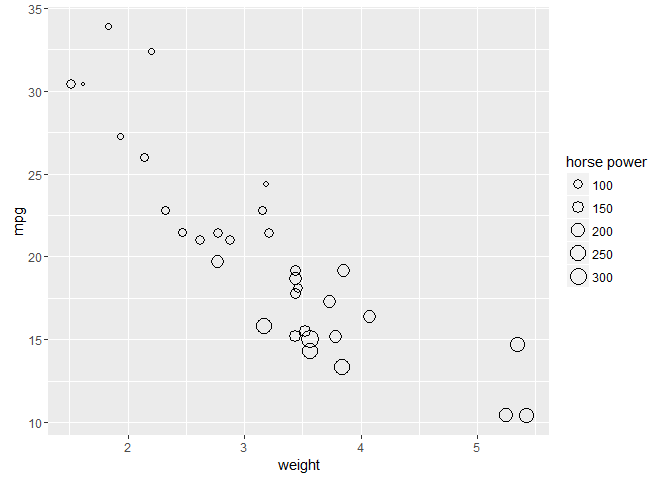
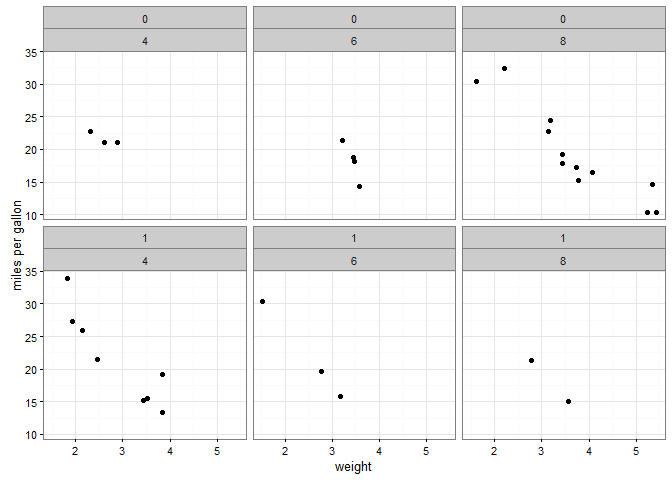
finished README

diff --git a/README.md b/README.md
@@ -13,6 +13,13 @@ heatmap()
 
 To use this function you must pre-prepare a table or else it won't. The term used in this pkg is the "summarized data table", which means for your two catigorical variables, you should have only one row in your table for each combination of catigorical variables, with one y output for each row. For example, if you want to see the effect of sex (male vs female) and smoking status (yes vs no), and you want to measure mutation rate accross 100 samples, you would prepare a table with 3 columns and 4 rows. Note that we have averaged the mutation for each of the 4 combinations of sex and smoking.
 
+| sex      | smoking | average mutation rate |
+|----------|---------|-----------------------|
+| "male"   | "no"    | 15.5                  |
+| "male"   | "yes"   | 12.3                  |
+| "female" | "no"    | 18.8                  |
+| "female" | "yes"   | 15.6                  |
+
 ### Function structure
 
 heatmap(data, x1, x2, y, xlab = "x-axis", ylab = "y-axis", legendlab = "responsevariable")
@@ -25,7 +32,9 @@ heatmap(data, x1, x2, y, xlab = "x-axis", ylab = "y-axis", legendlab = "response
 -   ylab is the y-axis label - must be character data.
 -   legendlab is the legend label - must be character data.
 
-### Example:
+### Example
+
+In this package we use the mtcars data set a lot, and below I'm going to walk through and example of how to use the heatmap function. First we need to fix the mtcars data, as several of the categorical variables are encoded as factors.
 
 ``` r
     my_cars <- dplyr::mutate(mtcars, cyl = as.factor(mtcars$cyl),
@@ -34,7 +43,25 @@ heatmap(data, x1, x2, y, xlab = "x-axis", ylab = "y-axis", legendlab = "response
                                                      am = as.factor(mtcars$am),
                                                      vs = as.factor(mtcars$vs))
 
+str(my_cars)
+```
 
+    ## 'data.frame':    32 obs. of  11 variables:
+    ##  $ mpg : num  21 21 22.8 21.4 18.7 18.1 14.3 24.4 22.8 19.2 ...
+    ##  $ cyl : Factor w/ 3 levels "4","6","8": 2 2 1 2 3 2 3 1 1 2 ...
+    ##  $ disp: num  160 160 108 258 360 ...
+    ##  $ hp  : num  110 110 93 110 175 105 245 62 95 123 ...
+    ##  $ drat: num  3.9 3.9 3.85 3.08 3.15 2.76 3.21 3.69 3.92 3.92 ...
+    ##  $ wt  : num  2.62 2.88 2.32 3.21 3.44 ...
+    ##  $ qsec: num  16.5 17 18.6 19.4 17 ...
+    ##  $ vs  : Factor w/ 2 levels "0","1": 1 1 2 2 1 2 1 2 2 2 ...
+    ##  $ am  : Factor w/ 2 levels "0","1": 2 2 2 1 1 1 1 1 1 1 ...
+    ##  $ gear: Factor w/ 3 levels "3","4","5": 2 2 2 1 1 1 1 2 2 2 ...
+    ##  $ carb: Factor w/ 6 levels "1","2","3","4",..: 4 4 1 1 2 1 4 2 2 4 ...
+
+Now we want to group the data by number of cylinders (cyl) and weather they are automatic or manual (am), and take the average of the miles per gallon, which will be our response varialbe in this case.
+
+``` r
     heat_data <- dplyr::ungroup(
         dplyr::summarise(dplyr::group_by(my_cars, am, cyl),
                                          average_mpg = mean(mpg)))
@@ -52,6 +79,8 @@ heat_data
     ## 5      1      6    20.56667
     ## 6      1      8    15.40000
 
+Now this data can be feed into our function heatmap()
+
 ``` r
 #heatmap::heatmap(heat_data, heat_data$cyl, heat_data$am, heat_data$average_mpg, "cylinders", "am", "mpg")
 ```
@@ -65,7 +94,7 @@ facet2D()
 
 This function was inspired by my interested in showing 2 categorical variables in the same set of graphs as 2 continous variables, ploting a grid of faceted plots where each column represents different values of one categorical variable, and each row represents different values of the other categorical variable. Each plot would show one of the continous variables on the x axis, with the other continous variable on the y-axis. However at this moment the function is not working properly. I will go into that below.
 
-### Function structure
+### Function Structure
 
 facet2D(data, c1, c2, f1, f2, xlab = "x-axis", ylab = "y-axis")
 
@@ -77,15 +106,9 @@ facet2D(data, c1, c2, f1, f2, xlab = "x-axis", ylab = "y-axis")
 -   xlab is the x-axis label - must be character data.
 -   ylab is the y-axis label - must be character data.
 
-### Example
+### Trouble shooting
 
-``` r
-coolgraph::facet2D(my_cars, my_cars$wt, my_cars$mpg, "am", "cyl", "weight", "miles per gallon")
-```
-
-![](README_files/figure-markdown_github/unnamed-chunk-3-1.png)
-
-Note that all tests for this function are currently disabled until it is working properlly. Below is the plot that this function should be producing. As you can see, it technically facet's the data and plots mpg vs wt, but something seems to be going wrong in that the points are distorted. This function will hopefully be fixed at a future data.
+In this graph, I want to compare the mpg or miles per gallon a car gets based on it's weight, accross cars with different numbers of cylinders and automatic drive vs manual drive. Below is the guts of what the function does.
 
 ``` r
 b <- ggplot2::ggplot(my_cars, ggplot2::aes(wt, mpg)) +
@@ -98,6 +121,16 @@ b
 ```
 
 ![](README_files/figure-markdown_github/unnamed-chunk-4-1.png)
+
+Unfortunatly when we make pretty much an identical call to our function, something about the facet\_wrap distorts the data.
+
+``` r
+coolgraph::facet2D(my_cars, my_cars$wt, my_cars$mpg, "am", "cyl", "weight", "miles per gallon")
+```
+
+![](README_files/figure-markdown_github/unnamed-chunk-5-1.png)
+
+Note that all tests for this function are currently disabled until it is working properlly. As you can see, it technically facet's the data and plots mpg vs wt, but something seems to be going wrong in that the points are distorted. This function will hopefully be fixed at a future data.
 
 sizescale()
 -----------
@@ -118,13 +151,26 @@ sizescale(data, x1, y1, scale, xlab = "x-axis", ylab = "y-axis", legendlab = "le
 
 ### Example
 
+This function will work pretty much directly on any dataframe, and requires minimal prep, however if for some reason your continous variables aren't in a numerical formate (dbl, int, numeric) then you will have to convert them to said numeric formate.
+
+Below is the internal workings of the function.
+
+``` r
+ggplot2::ggplot(mtcars, ggplot2::aes(x = mtcars$wt, y = mtcars$mpg)) +
+        ggplot2::geom_point(ggplot2::aes(size= mtcars$hp), pch = 21) +
+        ggplot2::xlab("weight") +
+        ggplot2::ylab("mpg") +
+        ggplot2::labs(size = "horse power")
+```
+
+![](README_files/figure-markdown_github/unnamed-chunk-6-1.png)
+
+And again, below this the actual function call.
+
 ``` r
 coolgraph::sizescale(mtcars, mtcars$wt, mtcars$mpg, mtcars$hp, "weight", "mpg", "horse power")
 ```
 
-![](README_files/figure-markdown_github/unnamed-chunk-5-1.png)
+![](README_files/figure-markdown_github/unnamed-chunk-7-1.png)
 
-More information
-----------------
-
-See my vignette:
+As you can see it seems to work more or less as intended. This function is both the simplest function in the package, and the most well behaved.
